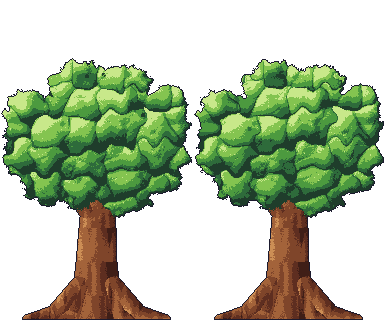
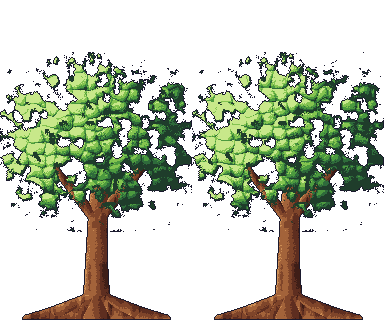
trial(trees): route A, the 3c oak tuned against the Eastward tree (not for develop)
Claude-Session: https://claude.ai/code/session_01PpsERv1PrvQ1rav92bK6Dn

diff --git a/game/e2e/stills/trial-trees.ts b/game/e2e/stills/trial-trees.ts
@@ -1,0 +1,50 @@
+/** Scratch: a phone still at noon beside the oaks. Not committed. tsx game/e2e/stills/trial-trees.ts <out.png> [x y] */
+import { createReadStream, existsSync, statSync } from 'node:fs';
+import { createServer } from 'node:http';
+import { dirname, extname, join, normalize, resolve } from 'node:path';
+import { fileURLToPath } from 'node:url';
+import { Browser, sleep } from '../cdp';
+import { TAKE_GROUND, carveIn, seedQuery } from '../wakes';
+
+const DIST = join(dirname(fileURLToPath(import.meta.url)), '..', '..', 'dist');
+const TYPES: Record<string, string> = { '.html': 'text/html', '.js': 'text/javascript', '.css': 'text/css', '.png': 'image/png', '.webp': 'image/webp', '.woff2': 'font/woff2', '.json': 'application/json' };
+async function main() {
+  const out = resolve(process.argv[2] ?? '.scratch/trees.png');
+  const [px, py] = [Number(process.argv[3] ?? 25), Number(process.argv[4] ?? 25)];
+  const server = createServer((req, res) => {
+    const path = normalize(decodeURIComponent((req.url ?? '/').split('?')[0] ?? '/')).replace(/^(\.\.[/\\])+/, '');
+    let file = join(DIST, path);
+    if (existsSync(file) && statSync(file).isDirectory()) file = join(file, 'index.html');
+    if (!file.startsWith(DIST) || !existsSync(file)) return void res.writeHead(404).end();
+    res.writeHead(200, { 'content-type': TYPES[extname(file)] ?? 'application/octet-stream' });
+    createReadStream(file).pipe(res);
+  });
+  await new Promise<void>((ok) => server.listen(0, '127.0.0.1', ok));
+  const url = `http://127.0.0.1:${(server.address() as { port: number }).port}/`;
+  const browser = await Browser.launch();
+  try {
+    const page = await browser.newPage({ width: 390, height: 844, mobile: true, scale: 3 });
+    await page.goto(`${url}?debug${seedQuery('core/west-bank')}`);
+    await page.waitFor(`!!document.querySelector('.title-screen button')`, 'title', 60_000);
+    await page.tap('.title-screen button', 'New game');
+    const choice = await page.waitFor<string>(`document.querySelector('.card.race') ? 'cards' : [...document.querySelectorAll('.title-screen button')].some((b) => b.textContent.includes('Start a new game')) ? 'ask' : ''`, 'cards');
+    if (choice === 'ask') await page.tap('.title-screen button', 'Start a new game');
+    await page.tap('.card.race', 'Elf');
+    await page.tap('.title-screen button', 'Wake up');
+    await page.waitFor('!!window.__game.session && window.__game.session.started', 'wake', 20_000);
+    await page.eval(carveIn('Tess'));
+    await page.eval(TAKE_GROUND);
+    for (let i = 0; i < 40; i++) { await page.press('Enter'); await sleep(150); if (!(await page.eval<boolean>(`!!document.querySelector('#ui > .layer, .dialog')`))) break; }
+    await page.eval(`(() => { const s = __game.session, day = __game.bundle.params.day_length_ms, q = Math.floor(day / 2); let t = s.tick - ((s.tick + q) % day) + Math.round((12 / 24) * day); if (t < s.tick) t += day; s.tick = t; const p = s.state.player; p.x = ${px}; p.y = ${py}; const w = __game.world; w.player.setPosition(${px} * 16 + 8, ${py} * 16 + 8); w.cameras.main.centerOn(w.player.x, w.player.y); })()`);
+    await sleep(2500);
+    console.log('oaks', JSON.stringify(await page.eval(`[...__game.world.nodes.entries()].filter(([k, s]) => /oak|tree/.test(s.texture.key + k)).slice(0, 12).map(([k, s]) => [k, s.texture.key, Math.round(s.x / 16), Math.round(s.y / 16), s.visible])`)));
+    console.log('chips', JSON.stringify(await page.eval(`[...document.querySelectorAll('.chip')].map((c) => c.textContent)`)));
+    await page.eval(`document.querySelectorAll('.toasts, .tracker, .hud, .pad, .tbtn').forEach((e) => (e.style.display = 'none'))`);
+    await page.eval(`__game.world.veil.setVisible(false); __game.session.pauses += 1`);
+    await sleep(500);
+    await page.screenshot(out);
+    console.log(out, JSON.stringify(await page.eval(`({ x: __game.session.state.player.x, y: __game.session.state.player.y })`)));
+    page.close();
+  } finally { await browser.close().catch(() => undefined); server.close(); }
+}
+main().catch((e) => { console.error(e); process.exit(1); });

diff --git a/tools/src/art/trees.ts b/tools/src/art/trees.ts
@@ -76,19 +76,36 @@ function trunk(points: readonly (readonly [number, number, number])[], roots: re
   return tubes;
 }
 
+/** Trial knobs for the oak (route A): the defaults are 3c's own. */
+const OAK = {
+  trunk: 1, // trunk radius scale
+  rx: 80, ry: 52, cy: 86, // the crown's ellipse
+  lobe: 1, // lobe radius scale
+  clump: 34,
+  tone: 0.85,
+  contrast: 1,
+  glints: 1,
+  ragged: 1,
+  side: 0,
+  boxH: 180,
+  ...(JSON.parse(process.env.OAK_TUNE ?? '{}') as Record<string, number>),
+};
+
 function oak(frame: number): PNG {
   const W = 192;
   const H = 320;
   const png = surface(W, H);
+  const k = OAK.trunk;
   // a thick, warm trunk that flares into four roots spreading over the ground, two boughs reaching into the crown
   drawTubes(png, [
-    ...trunk([[96, 316, 29], [96, 296, 25], [96, 262, 21], [97, 228, 19], [98, 196, 17]], [[26, 318, 6], [60, 319, 6.5], [132, 319, 6.5], [166, 318, 6]]),
-    { x0: 98, y0: 222, r0: 12, x1: 56, y1: 170, r1: 7 },
-    { x0: 98, y0: 218, r0: 12, x1: 142, y1: 168, r1: 7 },
+    ...trunk([[96, 316, 29 * k], [96, 296, 25 * k], [96, 262, 21 * k], [97, 228, 19 * k], [98, 196, 17 * k]], [[26, 318, 6], [60, 319, 6.5], [132, 319, 6.5], [166, 318, 6]]),
+    { x0: 98, y0: 222, r0: 12 * k, x1: 56, y1: 170, r1: 7 * k },
+    { x0: 98, y0: 218, r0: 12 * k, x1: 142, y1: 168, r1: 7 * k },
   ], { seed: 301, ramp: BARK, tone: 0.1, grain: 1.0 });
-  const box = { oy: 52, h: 180 };
-  const lobes = swayed(crownLobes(31, W, box.h, 96, 86, 80, 52, [[0.6, 9, 29], [1, 13, 25]], 38), box.h, frame, 2.5);
-  drawMass(png, { ox: 0, oy: box.oy, w: W, h: box.h, seed: 31, lobes, ramp: GREEN, clump: 34, tone: 0.85, shift: [frame * 3, frame * 2] });
+  const box = { oy: 52 + (180 - OAK.boxH) / 2, h: OAK.boxH };
+  const L = OAK.lobe;
+  const lobes = swayed(crownLobes(31, W, box.h, 96, OAK.cy, OAK.rx, OAK.ry, [[0.6, 9, 29 * L], [1, 13, 25 * L]], 38 * L), box.h, frame, 2.5);
+  drawMass(png, { ox: 0, oy: box.oy, w: W, h: box.h, seed: 31, lobes, ramp: GREEN, clump: OAK.clump, tone: OAK.tone, contrast: OAK.contrast, glints: OAK.glints, ragged: OAK.ragged, side: OAK.side, shift: [frame * 3, frame * 2] });
   return finish(png);
 }
 

diff --git a/tools/src/art/foliage.ts b/tools/src/art/foliage.ts
@@ -77,6 +77,9 @@ export interface MassOptions {
   glints?: number;
   /** How hard the light and shade of each clump pull from the middle step: 1 as the trees, more for a mass that reads dark with lit tops. */
   contrast?: number;
+  /** Trial: how ragged the silhouette is (1 as the trees), and how far the light leans to the left across the mass (0 none). */
+  ragged?: number;
+  side?: number;
 }
 
 /**
@@ -92,7 +95,7 @@ export function drawMass(png: PNG, o: MassOptions): Uint8Array {
   for (let y = 0; y < h; y += 1) {
     for (let x = 0; x < w; x += 1) {
       // a ragged edge: the distance to a lobe is nudged by noise at three sizes, so the silhouette is leaf clumps with notches, not a circle
-      const wob = (noise(seed + 5, x, y, 9) - 0.5) * 9 + (noise(seed + 6, x, y, 4) - 0.5) * 5 + (hash3(seed + 10, x, y) - 0.5) * 2.2;
+      const wob = ((noise(seed + 5, x, y, 9) - 0.5) * 9 + (noise(seed + 6, x, y, 4) - 0.5) * 5 + (hash3(seed + 10, x, y) - 0.5) * 2.2) * (o.ragged ?? 1);
       let best = -1;
       let owner = 0;
       for (const [n, l] of lobes.entries()) {
@@ -154,7 +157,7 @@ export function drawMass(png: PNG, o: MassOptions): Uint8Array {
       const reach = clumpSize * 0.62;
       const lit = (-(xw - cx) * 0.45 - (yw - cy) * 0.9) / reach;
       const crown = Math.min(1, near / reach);
-      let v = 2.25 + tone + dome * 0.9 * contrast + lit * 2.6 * contrast - crown * crown * 1.1 * contrast - (y / h - 0.5) * 2.4 + (hash3(seed + 9, x, y) - 0.5) * 0.3;
+      let v = 2.25 + tone + dome * 0.9 * contrast + lit * 2.6 * contrast - crown * crown * 1.1 * contrast - (y / h - 0.5) * 2.4 - ((x / w - 0.5) * (o.side ?? 0)) + (hash3(seed + 9, x, y) - 0.5) * 0.3;
       // a higher lobe up and to the left throws its shadow here
       const above = Math.max(at(x - 3, y - 3), at(x - 5, y - 2), at(x - 2, y - 5));
       if (above > height[y * w + x]! + 0.12) v -= 0.8;
